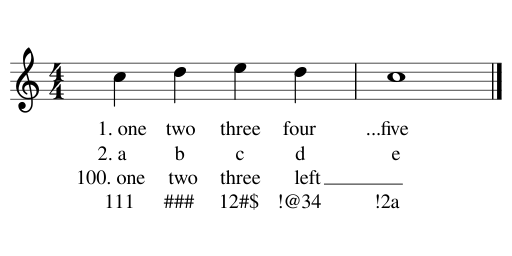
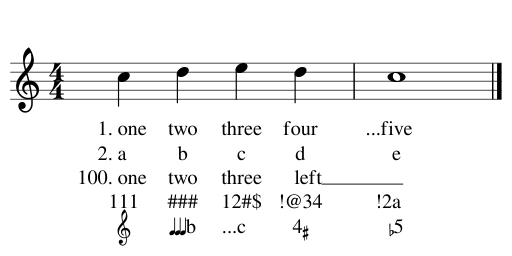
fix #40296: lyrics consisting of symbols offcenter
Former-commit-id: 7013e0ad5d8419f567ab90cde8cb27ab27aac04b

diff --git a/libmscore/lyrics.cpp b/libmscore/lyrics.cpp
@@ -231,7 +231,7 @@ void Lyrics::layout1()
       //
       bool hasNumber = false; // _verseNumber;
       qreal adjust = 0.0;
-      QString s = plainText();
+      QString s = plainText(true);
       // find:
       // 1) string of numbers and non-word characters at start of syllable
       // 2) at least one other character (indicating start of actual lyric)
